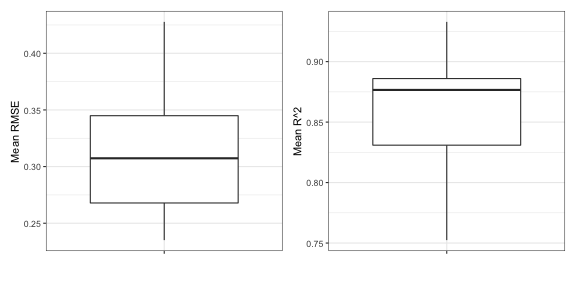
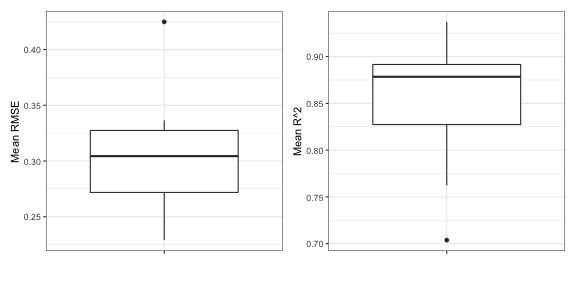
reveal patchplot

diff --git a/slides/slides_modelevaluation.html b/slides/slides_modelevaluation.html
@@ -189,9 +189,9 @@ trained_model &lt;- lm(fit$formula, data = training_iris)
 ```r
 ## How does the model do on data it was TRAINED ON?
 modelr::rsquare(trained_model, training_iris)
-## [1] 0.8506678
+## [1] 0.8704271
 modelr::rmse(trained_model, training_iris)
-## [1] 0.2932537
+## [1] 0.3009213
 ```
 
 --
@@ -200,9 +200,9 @@ modelr::rmse(trained_model, training_iris)
 ```r
 ## How does the model do on data it has NEVER SEEN? The testing data!!
 modelr::rsquare(trained_model, testing_iris)
-## [1] 0.8837236
+## [1] 0.8502678
 modelr::rmse(trained_model, testing_iris)
-## [1] 0.3419322
+## [1] 0.3090084
 ```
 
 ---
@@ -396,16 +396,16 @@ iris_kfold %&gt;%
 ## # A tibble: 10 x 6
 ##    train        test         .id   model_fit    test_rmse test_rsq
 ##    &lt;named list&gt; &lt;named list&gt; &lt;chr&gt; &lt;named list&gt;     &lt;dbl&gt;    &lt;dbl&gt;
-##  1 &lt;resample&gt;   &lt;resample&gt;   01    &lt;lm&gt;             0.254    0.930
-##  2 &lt;resample&gt;   &lt;resample&gt;   02    &lt;lm&gt;             0.231    0.888
-##  3 &lt;resample&gt;   &lt;resample&gt;   03    &lt;lm&gt;             0.281    0.913
-##  4 &lt;resample&gt;   &lt;resample&gt;   04    &lt;lm&gt;             0.353    0.831
-##  5 &lt;resample&gt;   &lt;resample&gt;   05    &lt;lm&gt;             0.261    0.909
-##  6 &lt;resample&gt;   &lt;resample&gt;   06    &lt;lm&gt;             0.344    0.760
-##  7 &lt;resample&gt;   &lt;resample&gt;   07    &lt;lm&gt;             0.397    0.453
-##  8 &lt;resample&gt;   &lt;resample&gt;   08    &lt;lm&gt;             0.278    0.864
-##  9 &lt;resample&gt;   &lt;resample&gt;   09    &lt;lm&gt;             0.374    0.798
-## 10 &lt;resample&gt;   &lt;resample&gt;   10    &lt;lm&gt;             0.336    0.868
+##  1 &lt;resample&gt;   &lt;resample&gt;   01    &lt;lm&gt;             0.270    0.918
+##  2 &lt;resample&gt;   &lt;resample&gt;   02    &lt;lm&gt;             0.269    0.920
+##  3 &lt;resample&gt;   &lt;resample&gt;   03    &lt;lm&gt;             0.360    0.825
+##  4 &lt;resample&gt;   &lt;resample&gt;   04    &lt;lm&gt;             0.248    0.921
+##  5 &lt;resample&gt;   &lt;resample&gt;   05    &lt;lm&gt;             0.283    0.870
+##  6 &lt;resample&gt;   &lt;resample&gt;   06    &lt;lm&gt;             0.290    0.714
+##  7 &lt;resample&gt;   &lt;resample&gt;   07    &lt;lm&gt;             0.342    0.858
+##  8 &lt;resample&gt;   &lt;resample&gt;   08    &lt;lm&gt;             0.429    0.664
+##  9 &lt;resample&gt;   &lt;resample&gt;   09    &lt;lm&gt;             0.339    0.919
+## 10 &lt;resample&gt;   &lt;resample&gt;   10    &lt;lm&gt;             0.266    0.866
 ```
 
 ---
@@ -442,7 +442,7 @@ result_kfold %&gt;%
 ## # A tibble: 1 x 2
 ##   mean_rmse mean_rsq
 ##       &lt;dbl&gt;    &lt;dbl&gt;
-## 1     0.312    0.860
+## 1     0.307    0.852
 ```
 
 + We expect, when used on data the model has never seen, it will predict `\(R^2\)` of variation in sepal lengths 
@@ -464,14 +464,15 @@ result_kfold %&gt;%
 ```r
 result_kfold %&gt;%
   ggplot(aes(x = "", y = test_rmse)) + geom_boxplot() + 
-  xlab("") + ylab("Mean RMSE")-&gt; rmse_box
+  xlab("") + ylab("Mean RMSE") -&gt; box_rmse
+
 
 result_kfold %&gt;%
   ggplot(aes(x = "", y = test_rsq)) + geom_boxplot() + 
-  xlab("") + ylab("Mean R^2") -&gt; rsq_box
+  xlab("") + ylab("Mean R^2") -&gt; box_rsw
 
-## using patchwork:
-rmse_box + rsq_box
+# patchwork 
+print(box_rmse+box_rsw)
 ```
 
 ![](slides_modelevaluation_files/figure-html/unnamed-chunk-22-1.png)&lt;!-- --&gt;
